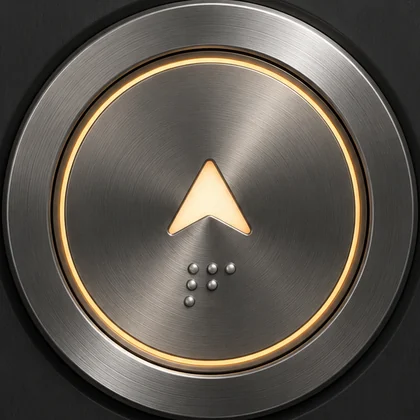
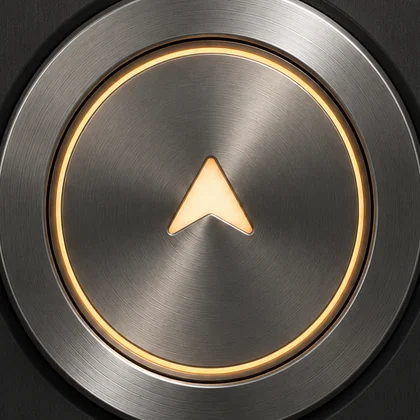
Llamada sin braille y aspecto Lobby para puertas de personas (v=239)

diff --git a/docs/app.js b/docs/app.js
@@ -2,7 +2,7 @@
 // Sin él se queda pegado en el caché del CDN (4 h) aunque app.js sí se renueve:
 // pasó al cambiar el authDomain a auth.viyi.ai. Súbelo junto con el de
 // index.html cada vez que cambie firebase-config.js.
-import { firebaseConfig, FUNCTIONS_REGION, NOMBRE_CONDOMINIO } from './firebase-config.js?v=238';
+import { firebaseConfig, FUNCTIONS_REGION, NOMBRE_CONDOMINIO } from './firebase-config.js?v=239';
 
 const $ = (id) => document.getElementById(id);
 const VISTAS = ['vista-cargando', 'vista-config', 'vista-email', 'vista-login', 'vista-registro', 'vista-sin-acceso', 'vista-panel'];
@@ -216,8 +216,9 @@ async function iniciar() {
   const ASPECTOS_IMAGEN = {
     bordado: { img: 'bordado.jpg?v=1', clase: 'boton-bordado' },
     hal: { img: 'hal.jpg?v=1', clase: 'boton-hal' },
-    ascensor: { img: 'ascensor.webp?v=3', clase: 'boton-ascensor' },
+    ascensor: { img: 'ascensor.webp?v=5', clase: 'boton-ascensor' },
     bronce: { img: 'bronce.webp?v=1', clase: 'boton-bronce' },
+    lobby: { img: 'lobby.webp?v=1', clase: 'boton-lobby' },
   };
 
   // ---- Galería de skins (colección `skins` de Firestore) ----
@@ -276,6 +277,9 @@ async function iniciar() {
     { id: 'ascensor', nombre: 'Llamada', modos: ['pulso'], tipos: ['ascensor'] },
     { id: 'bronce', nombre: 'Bronce', modos: ['pulso'], tipos: ['ascensor'] },
     { id: 'sabiem', nombre: 'Sabiem', modos: ['pulso'], tipos: ['ascensor'] },
+    // Lobby: 'PRESIONE PARA ABRIR', así que solo en la puerta de personas
+    // (subtipo vacío); en un portón de vehículos no diría lo mismo.
+    { id: 'lobby', nombre: 'Lobby', modos: ['pulso'], soloPuerta: true, subtipos: [''] },
     { id: 'hal', nombre: 'Hal', modos: ['pulso'], soloPuerta: true },
     { id: 'bordado', nombre: 'Bordado', modos: ['pulso'], soloPuerta: true },
     { id: 'argentina', nombre: 'Argentina', modos: ['pulso'], soloPuerta: true },
@@ -301,7 +305,8 @@ async function iniciar() {
   const aspectosDe = (d) => catalogoAspectos().filter((a) =>
     a.modos.includes(d.modo || 'pulso')
     && (!a.soloPuerta || d.tipo === 'puerta')
-    && (!a.tipos || a.tipos.includes(d.tipo || 'otro')));
+    && (!a.tipos || a.tipos.includes(d.tipo || 'otro'))
+    && (!a.subtipos || a.subtipos.includes(d.subtipo || '')));
 
   // El aspecto que se pinta: manda la elección del vecino (usuarios/{uid}.
   // aspectos[dispositivoId]); si no eligió, el que puso el admin en el

diff --git a/docs/styles.css b/docs/styles.css
@@ -2737,3 +2737,31 @@ input:checked ~ .pase-tgl::before {
 .skin-muestra.boton-bronce img {
   filter: saturate(0.4) brightness(0.52);
 }
+
+/* ===== Aspecto Lobby: pulsador de puerta de personas =====
+   Mismo patrón que los de ascensor: la foto viene encendida y el reposo se
+   consigue apagándola. Aquí se conserva algo de saturación porque el aro y el
+   rótulo son ámbar sobre gunmetal y a saturación 0 se volvían plomo. */
+.boton-lobby {
+  transition: box-shadow 0.35s ease;
+}
+
+.boton-lobby .boton-logo {
+  filter: saturate(0.28) brightness(0.5);
+  transition: filter 0.35s ease;
+}
+
+.boton-lobby.enviando .boton-logo,
+.boton-lobby.exito .boton-logo {
+  filter: none;
+}
+
+.boton-lobby.enviando,
+.boton-lobby.exito {
+  box-shadow: 9px 9px 18px var(--sombra-oscura), -9px -9px 18px var(--sombra-clara),
+              0 0 30px 7px rgba(255, 176, 62, 0.7);
+}
+
+.skin-muestra.boton-lobby img {
+  filter: saturate(0.28) brightness(0.5);
+}

diff --git a/functions/index.js b/functions/index.js
@@ -192,7 +192,7 @@ const dormir = (ms) => new Promise((resolve) => setTimeout(resolve, ms));
 // puede elegir el suyo en su vestuario (usuarios/{uid}.aspectos). 'normal' es
 // válido a propósito: es la forma de que el vecino vuelva al botón de siempre
 // aunque el admin le haya puesto otro.
-const ASPECTOS_VALIDOS = ['normal', 'jet', 'argentina', 'bordado', 'hal', 'neon', 'acero', 'cristal', 'pop', 'cobre', 'rueda', 'ascensor', 'sabiem', 'bronce'];
+const ASPECTOS_VALIDOS = ['normal', 'jet', 'argentina', 'bordado', 'hal', 'neon', 'acero', 'cristal', 'pop', 'cobre', 'rueda', 'ascensor', 'sabiem', 'bronce', 'lobby'];
 
 // Los de arriba viven en el código; los de la galería (colección `skins`) son
 // datos que el admin publica sin desplegar, así que la lista no puede ser fija.

diff --git a/docs/index.html b/docs/index.html
@@ -15,7 +15,7 @@
        fuente del sistema y la propia entra cuando baja. -->
   <link rel="stylesheet" href="https://fonts.googleapis.com/css2?family=Josefin+Sans:wght@300;400;600&family=Fredoka:wght@500;600&display=swap" media="print" onload="this.media='all'">
   <noscript><link rel="stylesheet" href="https://fonts.googleapis.com/css2?family=Josefin+Sans:wght@300;400;600&family=Fredoka:wght@500;600&display=swap"></noscript>
-  <link rel="stylesheet" href="styles.css?v=238">
+  <link rel="stylesheet" href="styles.css?v=239">
 </head>
 <body>
   <header>
@@ -288,6 +288,6 @@
 
   <div id="toast" class="oculto" role="status"></div>
 
-  <script type="module" src="app.js?v=238"></script>
+  <script type="module" src="app.js?v=239"></script>
 </body>
 </html>
